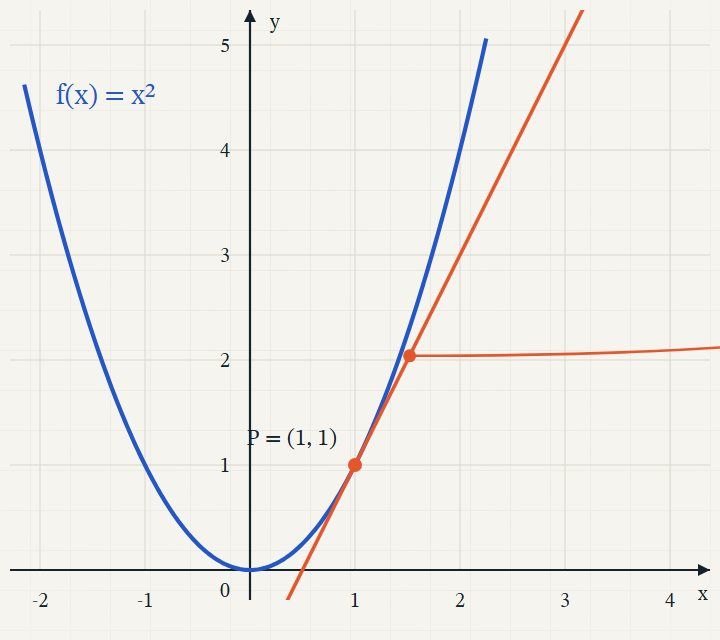
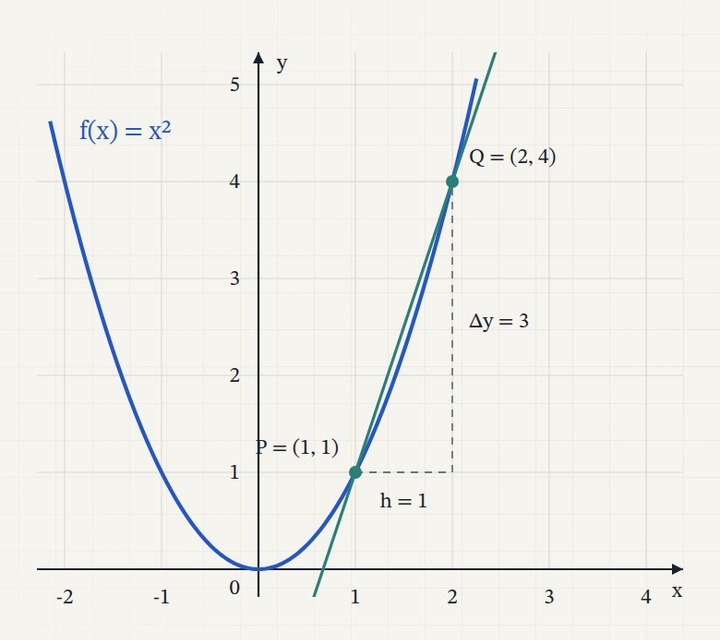
Add Proofline 1.0.0
Submitted through motionhub.dev (package SHA-256 558c516361a888aa7cd2e8ea80f7147fa8d6147e0dc912b745463b08091f53cf).

Motionhub-Submitted-By: 264293696 motionhub
Motionhub-Submission: SmbyeKG1n-ZL6gVkzU10pg

diff --git a/motions/@motionhub/proofline/react/parts/quadratic-graph.tsx b/motions/@motionhub/proofline/react/parts/quadratic-graph.tsx
@@ -99,7 +99,7 @@ export const QuadraticGraph = (props: QuadraticGraphProps) => {
       <path d={`M${bounds.right} ${origin[1]}l-12 -6v12Z`} fill="var(--color-ink)" />
       <path d={`M${origin[0]} ${bounds.top}l-6 12h12Z`} fill="var(--color-ink)" />
 
-      <g fontFamily="var(--font-math)" fontSize="20" fill="var(--color-ink)">
+      <g fontFamily="var(--font-math)" fontSize="23" fill="var(--color-ink)">
         {[-2, -1, 1, 2, 3, 4].map((x) => <text key={`tx${x}`} x={px(x)} y={origin[1] + 37} textAnchor="middle">{x}</text>)}
         {[1, 2, 3, 4, 5].map((y) => <text key={`ty${y}`} x={origin[0] - 20} y={py(y) + 7} textAnchor="end">{y}</text>)}
         <text x={origin[0] - 20} y={origin[1] + 27} textAnchor="end">0</text>
@@ -129,15 +129,15 @@ export const QuadraticGraph = (props: QuadraticGraphProps) => {
       <g fontFamily="var(--font-math)" fontSize="23" fill="var(--color-ink)">
         <text x={px(x0) - 18} y={py(f0) - 20} textAnchor="end">P = ({formatNumber(x0)}, {formatNumber(f0)})</text>
         {hasSecant ? (
-          <text x={px(qx) + 18} y={py(qy) - 20}>
+          <text x={px(qx) + 18} y={py(qy) - 20} opacity={construction}>
             {showQCoordinates ? `Q = (${formatNumber(qx)}, ${formatNumber(qy)})` : 'Q'}
           </text>
         ) : null}
         {hasSecant && Math.abs(h) >= 0.35 ? (
-          <>
+          <g opacity={construction}>
             <text x={(px(x0) + px(qx)) / 2} y={py(f0) + 38} textAnchor="middle">h = {formatNumber(h)}</text>
             <text x={px(qx) + 18} y={(py(f0) + py(qy)) / 2}>Δy = {formatNumber(qy - f0)}</text>
-          </>
+          </g>
         ) : null}
       </g>
     </g>

diff --git a/motions/@motionhub/proofline/react/parts/coordinate-field.tsx b/motions/@motionhub/proofline/react/parts/coordinate-field.tsx
@@ -28,15 +28,10 @@ export const CoordinateField = ({
   height?: number;
   step?: number;
 }) => {
+  if (step <= 0) {
+    throw new Error('Grid step must be positive.');
+  }
   const id = useId().replace(/:/g, '');
-  const vertical = [];
-  const horizontal = [];
-  for (let gx = 0; gx <= width; gx += step) {
-    vertical.push(<line key={`v${gx}`} x1={x + gx} y1={y} x2={x + gx} y2={y + height} />);
-  }
-  for (let gy = 0; gy <= height; gy += step) {
-    horizontal.push(<line key={`h${gy}`} x1={x} y1={y + gy} x2={x + width} y2={y + height} />);
-  }
   return (
     <svg width="1920" height="1080" style={{position: 'absolute', inset: 0, pointerEvents: 'none'}} aria-hidden="true">
       <defs>
